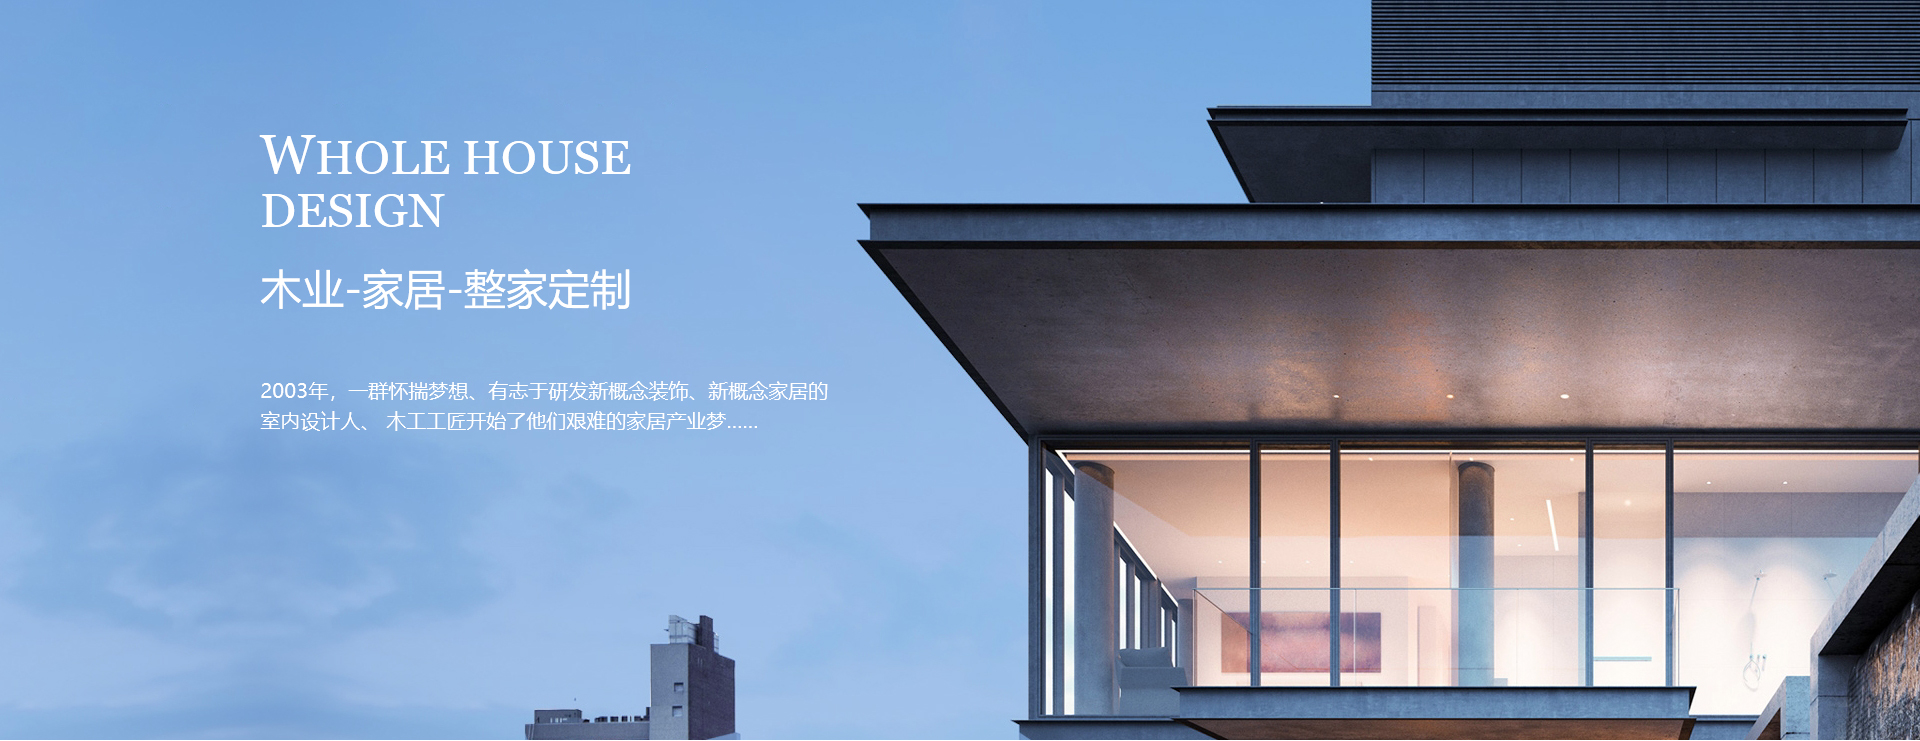
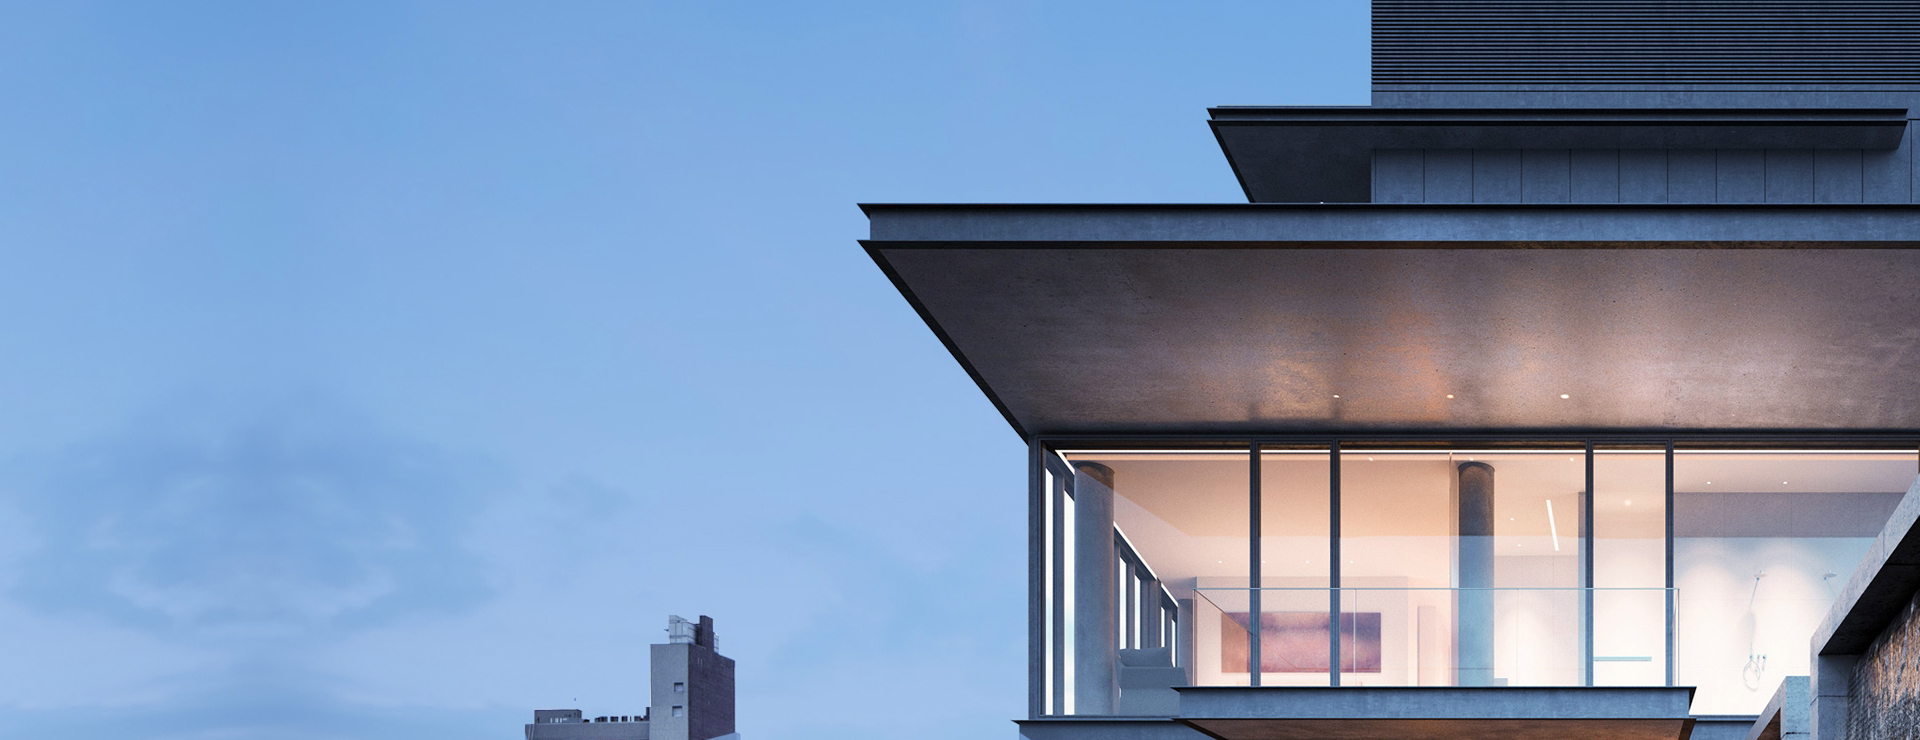
update

diff --git a/css/home.css b/css/home.css
@@ -45,20 +45,55 @@
 	line-height: 24px;
 	color: #777777;
 }
+
 .products-banner {
 	width: 100%;
 	height: 741px;
 	background: url(../img/f.jpg)top center no-repeat;
 }
+
 .products-banner img {
 	width: 100%;
 	height: auto;
 	display: block;
 }
 
+.products-banner-title {
+	color: #fff;
+	padding-top: 124px;
+}
+
+.products-banner-title-en {
+	font-family: Georgia;
+	font-size: 48px;
+	color: #ffffff;
+}
+
+.products-banner-title-en span {
+	font-family: Georgia;
+	font-size: 56px;
+	line-height: 60px;
+	color: #ffffff;
+}
+
+.products-banner-title-cn {
+	font-size: 42px;
+	line-height: 60px;
+	color: #ffffff;
+	margin-top: 20px;
+}
+
+.products-banner p {
+	font-size: 20px;
+	line-height: 30px;
+	color: #ffffff;
+	margin-top: 56px;
+	max-width: 568px;
+}
+
 .products-classify {
 	width: 100%;
-/* 	height: 300px; */
+	/* 	height: 300px; */
 	background-color: #efefef;
 	border-radius: 16px;
 	margin-top: -130px;
@@ -71,7 +106,7 @@
 	cursor: pointer;
 }
 
-.products-classify-item .item-icon{
+.products-classify-item .item-icon {
 	width: 80px;
 	height: 60px;
 	margin: 0 auto;
@@ -394,26 +429,26 @@
 
 .form .form-content .form-item-name,
 .form .form-content .form-item-phone,
-.form .form-content .form-item-acreage{
+.form .form-content .form-item-acreage {
 	width: 240px;
 }
 
 .form .form-content .form-select-room,
 .form .form-content .form-select-hall,
-.form .form-content .form-select-toilet{
+.form .form-content .form-select-toilet {
 	width: 145px;
 }
 
 .form .form-content .form-item-name .form-item-value,
 .form .form-content .form-item-phone .form-item-value,
-.form .form-content .form-item-acreage .form-item-value{
+.form .form-content .form-item-acreage .form-item-value {
 	width: calc(100% - 53px);
 }
 
 
 .form .form-content .form-select-room .form-item-value,
 .form .form-content .form-select-hall .form-item-value,
-.form .form-content .form-select-toilet .form-item-value{
+.form .form-content .form-select-toilet .form-item-value {
 	width: calc(100% - 43px);
 }
 
@@ -603,8 +638,35 @@
 		margin-left: 5px;
 		margin-right: 5px;
 	}
-	.products-banner{
+
+	.products-banner {
 		height: 500px;
+	}
+
+	.products-banner-title {
+		padding-top: 62px;
+	}
+
+	.products-banner-title-en {
+		font-size: 36px;
+	}
+
+	.products-banner-title-en span {
+		font-family: Georgia;
+		font-size: 48px;
+		line-height: 50px;
+	}
+
+	.products-banner-title-cn {
+		font-size: 30px;
+		line-height: 50px;
+		margin-top: 20px;
+	}
+
+	.products-banner p {
+		font-size: 16px;
+		margin-top: 48px;
+		max-width: 568px;
 	}
 
 	.products-display .products-display-left {
@@ -621,18 +683,21 @@
 		padding: 0;
 		margin-top: 50px;
 	}
-    .products-classify {
+
+	.products-classify {
 		padding-top: 50px;
 		padding-bottom: 50px;
+		margin-top: -80px;
 	}
-	.form .form-content .form-item{
+
+	.form .form-content .form-item {
 		margin-bottom: 10px;
 	}
-	
+
 	.company-news .news-left {
 		max-width: 100%;
 	}
-	
+
 	.company-news .news-right {
 		margin-top: 50px;
 		max-width: 100%;
@@ -662,32 +727,70 @@
 		line-height: 20px;
 	}
 
-	.company-news .news-right .news-wrap{
+	.company-news .news-right .news-wrap {
 		left: 5px;
 		bottom: 5px;
-		
+
 	}
 
 	.products-classify {
 		padding: 30px 20px;
 		margin-top: -50px;
 	}
-	.products-banner{
-		height: 250px;
+
+	.products-banner {
+		height: 325px;
 	}
-	.products-classify-item .item-icon{
+
+	.products-banner-title {
+		padding-top: 30px;
+	}
+
+	.products-banner-title-en {
+		font-size: 24px;
+	}
+
+	.products-banner-title-en span {
+		font-family: Georgia;
+		font-size: 30px;
+		line-height: 42px;
+	}
+
+	.products-banner-title-cn {
+		font-size: 20px;
+		line-height: 42px;
+		margin-top: 10px;
+	}
+
+	.products-banner p {
+		font-size: 14px;
+		line-height: 20px;
+		margin-top: 20px;
+		max-width: 100%;
+	}
+
+	.products-display .proudcts-list .classify-name {
+		font-size: 16px;
+	}
+
+	.products-display .proudcts-list .products-name a {
+		font-size: 14px;
+	}
+
+	.products-classify-item .item-icon {
 		width: 40px;
 		height: 30px;
 	}
-	.products-classify-item .item-name{
+
+	.products-classify-item .item-name {
 		font-size: 16px;
 		margin-top: 15px;
 	}
-	
+
 	.products,
 	.new-products,
 	.team,
-	.process-details{
+	.process-details {
 		margin-bottom: 60px;
 	}
 
@@ -699,23 +802,48 @@
 
 	.form .form-content .form-item-name,
 	.form .form-content .form-item-phone,
-	.form .form-content .form-item-acreage{
+	.form .form-content .form-item-acreage {
 		width: 100%;
 	}
-	
+
 	.form .form-content .form-select-room,
 	.form .form-content .form-select-hall,
-	.form .form-content .form-select-toilet{
+	.form .form-content .form-select-toilet {
 		width: calc(100% / 3 - 10px);
 	}
-	
-	.form .submit-btn{
+
+	.form .flow-item .flow-title {
+		font-size: 16px;
+	}
+
+	.form .flow-item .flow-name {
+		font-size: 12px;
+	}
+
+	.form .form-tips {
+		font-size: 20px;
+	}
+
+	.form .submit-btn {
 		margin-top: 20px;
 	}
 
 	.new-products-left,
 	.new-products-right {
 		width: 100%;
+	}
+
+	.company-news .company-news-item .news-title {
+		font-size: 16px;
+	}
+
+	.company-news .company-news-item .news-time,
+	.company-news .company-news-item .news-dec {
+		font-size: 12px;
+	}
+	
+	.company-news .news-right .news-title{
+		font-size: 18px;
 	}
 
 	.common-title-cn {
@@ -725,6 +853,10 @@
 
 	.common-title-en {
 		font-size: 14px;
+	}
+
+	.process-content .process-title {
+		font-size: 16px;
 	}
 
 	.new-products .new-products-content .new-products-item {

diff --git a/index.html b/index.html
@@ -195,7 +195,13 @@
 		<!-- WHOLE HOUSE DESIGN -->
 		<div class="products">
 			<div class="products-banner">
-				<!-- <img src="img/f.jpg" alt=""> -->
+				<div class="container">
+					<div class="products-banner-title">
+						<div class="products-banner-title-en"><span>W</span>HOLE HOUSE<br/> DESIGN</div>
+						<div class="products-banner-title-cn">木业-家居-整家定制</div>
+					</div>
+					<p>2003年，一群怀揣梦想、有志于研发新概念装饰、新概念家居的室内设计人、 木工工匠开始了他们艰难的家居产业梦……</p>
+				</div>
 			</div>
 			<div class="container">
 				<div class="products-content">

diff --git a/css/common.css b/css/common.css
@@ -568,7 +568,7 @@ img {
 @media screen and (min-width: 768px) and (max-width: 1400px) {}
 
 /* 移动端 */
-@media screen and (max-width: 768px) {
+@media screen and (max-width: 767px) {
 	html,
 	body {
 		font-size: 14px;
@@ -620,5 +620,8 @@ img {
 	.inside-common-title-en{
 		font-size: 14px;
 		line-height: 20px;
+	}
+	.broadside{
+		display: none;
 	}
 }
